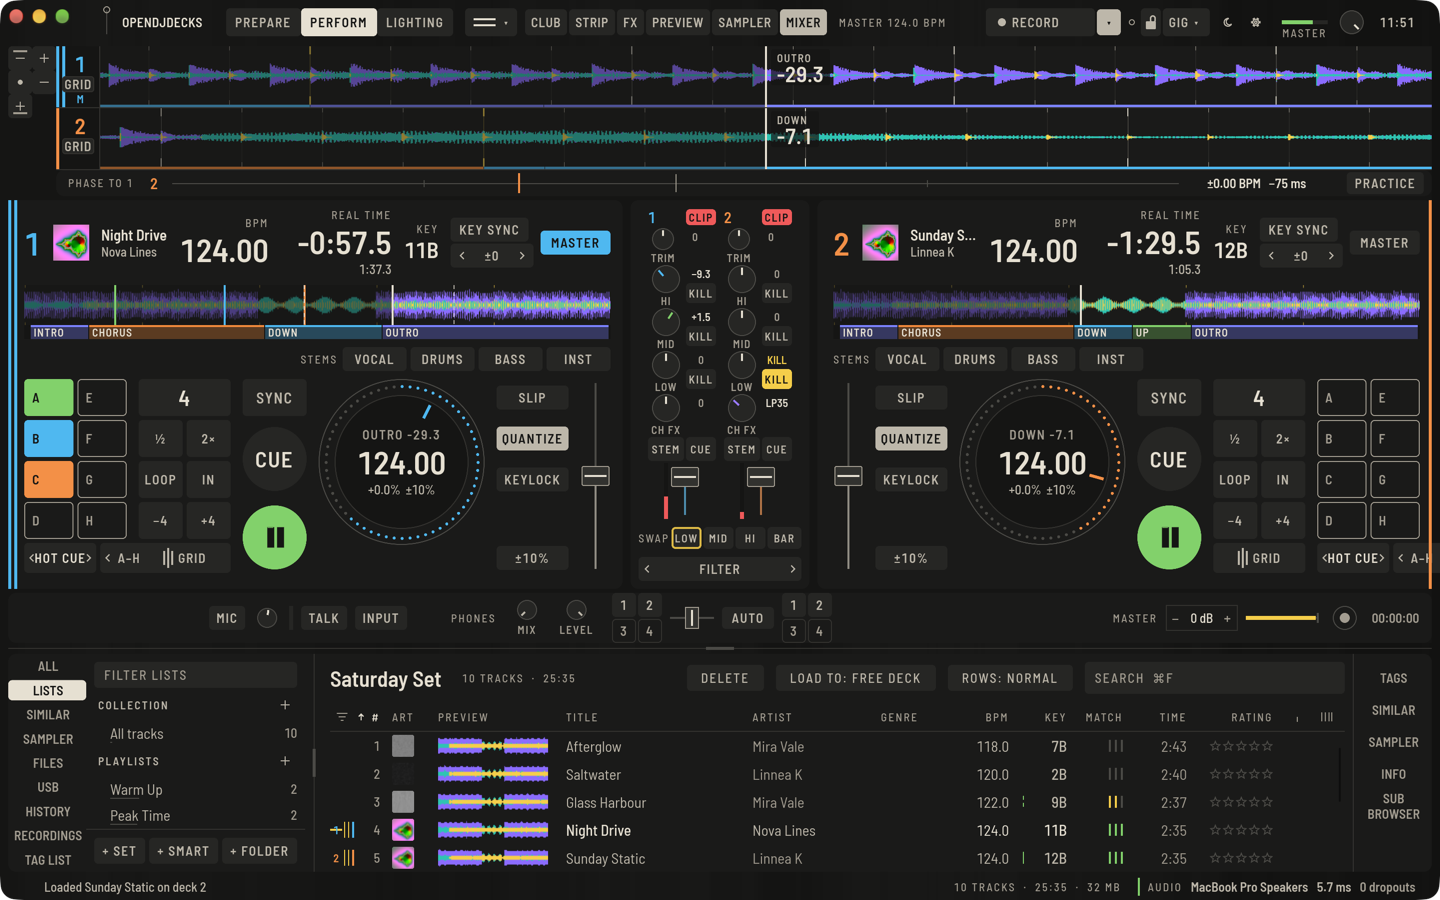
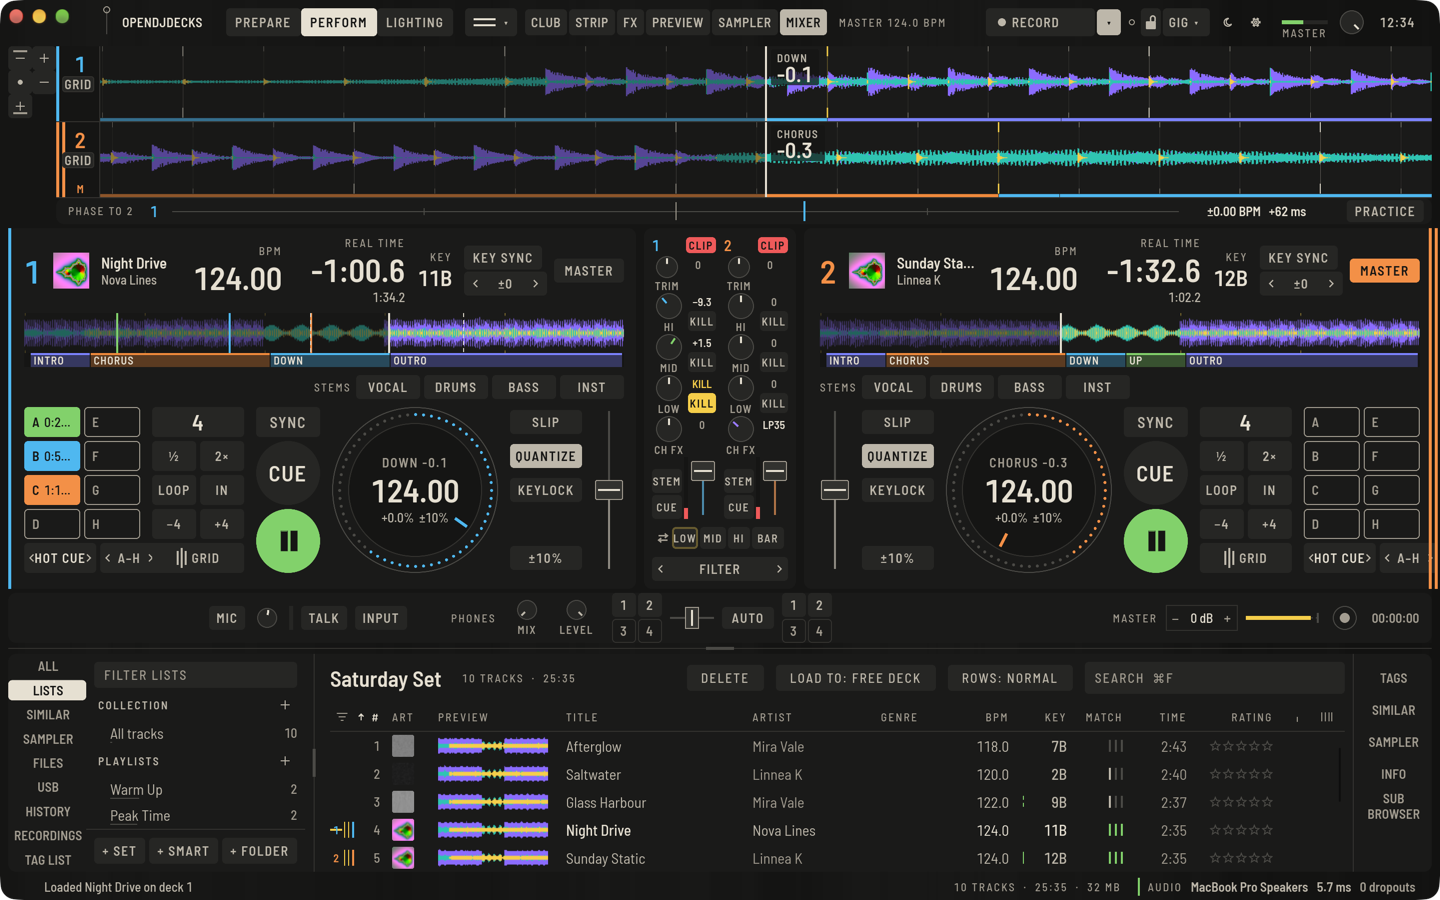
Guides: mixer screenshot and wording for the new strip layout

diff --git a/docs/guide/de/mixer.md b/docs/guide/de/mixer.md
@@ -9,7 +9,7 @@ Der Mixer steht zwischen den Decks. Drücke **MIXER** in der oberen Leiste (`⌥
 
 ## Ein Kanal
 
-Von oben nach unten: die Kanalnummer mit ihrer **CLIP**-Lampe, **TRIM**, **HI**, **MID**, **LOW**, **CH FX** (der Channel-FX-Regler), **STEM** und **CUE**, und der Kanalfader mit seiner Anzeige. Zieh einen Regler nach oben oder unten, um ihn zu drehen; Doppelklick (oder doppeltes Tippen) setzt ihn auf die Mitte zurück.
+Von oben nach unten: die Kanalnummer mit ihrer **CLIP**-Lampe, **TRIM**, **HI**, **MID**, **LOW**, **CH FX** (der Channel-FX-Regler) und der Kanalfader mit seiner Anzeige, daneben **STEM** und **CUE**. Zieh einen Regler nach oben oder unten, um ihn zu drehen; Doppelklick (oder doppeltes Tippen) setzt ihn auf die Mitte zurück.
 
 Jeder Regler zeigt seinen Wert daneben: TRIM und EQ in dB (**AUS**, wenn ein Isolator-Band ganz heruntergedreht ist), CH FX als Seite und Stärke des Filters (**LP40** ist ein Tiefpass bei 40 %, **HP25** ein Hochpass bei 25 %), andere Channel FX als Prozent mit Vorzeichen.
 
@@ -21,18 +21,18 @@ Jeder Regler zeigt seinen Wert daneben: TRIM und EQ in dB (**AUS**, wenn ein Iso
 
 ## Basswechsel
 
-![Der Mixer mit gekilltem LOW auf Deck 2 und einem LOW-Tausch, der auf den nächsten Takt wartet](../img/mixer-bass-swap.png)
+![Der Mixer mit gekilltem LOW auf einem Deck und einem LOW-Tausch, der auf den nächsten Takt wartet](../img/mixer-bass-swap.png)
 
 **KILL** neben HI, MID und LOW nimmt dieses Band heraus, solange es leuchtet. Der Regler bleibt, wo er ist; lässt du den Kill los, kommt das Band mit dem Wert des Reglers zurück. Mit dem Isolator-EQ ist ein gekilltes Band stumm, mit dem klassischen EQ steht es auf der tiefsten Stellung des Reglers (−26 dB). Der Wert neben dem Regler zeigt **KILL**, solange er an ist.
 
-Die Reihe **SWAP** unter den Kanälen tauscht mit einem Tippen ein Band zwischen den zwei Decks im Mix:
+Die Tauschreihe unter den Kanälen (mit zwei gegenläufigen Pfeilen markiert) tauscht mit einem Tippen ein Band zwischen den zwei Decks im Mix:
 
 1. Kille das LOW des kommenden Decks (oder dreh es herunter), während das spielende Deck seinen Bass hat.
-2. Tippe in der SWAP-Reihe auf **LOW**. Die beiden Decks tauschen LOW-Regler und Kill: Das kommende Deck bekommt den Bass, das gehende verliert ihn. **MID** und **HI** machen dasselbe für ihre Bänder.
+2. Tippe in der Tauschreihe auf **LOW**. Die beiden Decks tauschen LOW-Regler und Kill: Das kommende Deck bekommt den Bass, das gehende verliert ihn. **MID** und **HI** machen dasselbe für ihre Bänder.
 
 Die Taste am Ende der Reihe bestimmt, wann getauscht wird: **SOFORT**, **BEAT** (auf dem nächsten Beat) oder **TAKT** (auf der nächsten Eins), gezählt am Beatgrid des Master-Decks. Klick sie an, um durch die drei zu schalten. Solange ein Tausch auf seinen Beat oder Takt wartet, zeigt seine Taste einen Rahmen; tippst du erneut darauf, wird er abgebrochen. Spielt kein Deck, gibt es keinen Beat, auf den gewartet werden kann, und der Tausch passiert sofort.
 
-Der Tausch wirkt auf die zwei lautesten spielenden Decks. Spielt nur ein Deck, tauscht es mit dem nächsten Deck, auf dem ein Track geladen ist; spielt keins, mit Deck 1 und 2. Bei vier Decks nennt die Reihe das Paar (zum Beispiel **SWAP 2/3**).
+Der Tausch wirkt auf die zwei lautesten spielenden Decks. Spielt nur ein Deck, tauscht es mit dem nächsten Deck, auf dem ein Track geladen ist; spielt keins, mit Deck 1 und 2. Bei vier Decks nennt die Reihe das Paar (zum Beispiel **2/3**).
 
 Ein Controller kann beides: Lege `mixer.eq_kill` (mit `band = "low"`, `"mid"` oder `"high"`) auf eine Taste eines Kanals und `eq_swap` (mit einem `band`) auf eine beliebige Taste; siehe [Controller-Mappings](controllers.md). Noch kein mitgeliefertes Controller-Mapping nutzt sie, und an einem echten Controller wurden sie noch nicht ausprobiert; getestet sind sie nur in der Software.
 

diff --git a/docs/guide/en/mixer.md b/docs/guide/en/mixer.md
@@ -9,7 +9,7 @@ The mixer stands between the decks. Press **MIXER** in the top bar (`⌥⌘M`) t
 
 ## A channel
 
-From top to bottom: the channel number with its **CLIP** lamp, **TRIM**, **HI**, **MID**, **LOW**, **CH FX** (the Channel FX knob), **STEM** and **CUE**, and the channel fader with its meter. Drag a knob up or down to turn it; double-click (or double-tap) it to reset it to the centre.
+From top to bottom: the channel number with its **CLIP** lamp, **TRIM**, **HI**, **MID**, **LOW**, **CH FX** (the Channel FX knob), and the channel fader with its meter, with **STEM** and **CUE** beside it. Drag a knob up or down to turn it; double-click (or double-tap) it to reset it to the centre.
 
 Each knob shows its value beside it: TRIM and the EQ in dB (**OFF** when an isolator band is turned fully down), CH FX as the filter side and depth (**LP40** is a low-pass at 40 %, **HP25** a high-pass at 25 %), other Channel FX as a signed percent.
 
@@ -21,18 +21,18 @@ Each knob shows its value beside it: TRIM and the EQ in dB (**OFF** when an isol
 
 ## Bass swaps
 
-![The mixer with deck 2's LOW killed and a LOW swap waiting for the next bar](../img/mixer-bass-swap.png)
+![The mixer with one deck's LOW killed and a LOW swap waiting for the next bar](../img/mixer-bass-swap.png)
 
 **KILL** beside HI, MID and LOW takes that band out while it is lit. The knob stays where it is; when you release the kill, the band comes back at the knob's value. With the isolator EQ a killed band is silent; with the classic EQ it is at the knob's lowest setting (−26 dB). The value beside the knob reads **KILL** while it is on.
 
-The **SWAP** row under the channels exchanges one band between the two decks in the mix with one tap:
+The swap row under the channels (marked with two opposed arrows) exchanges one band between the two decks in the mix with one tap:
 
 1. Kill the LOW of the incoming deck (or turn it down) while the playing deck has its bass.
-2. Tap **LOW** in the SWAP row. The two decks trade their LOW knob and kill: the incoming deck gets the bass, the outgoing deck loses it. **MID** and **HI** do the same for their bands.
+2. Tap **LOW** in the swap row. The two decks trade their LOW knob and kill: the incoming deck gets the bass, the outgoing deck loses it. **MID** and **HI** do the same for their bands.
 
 The key at the end of the row sets when the swap happens: **NOW** (at once), **BEAT** (on the next beat) or **BAR** (on the next downbeat), counted on the master deck's beatgrid. Click it to step through the three. While a swap waits for its beat or bar, its key shows an outline; tap it again to cancel. When no deck is playing there is no beat to wait for, and the swap happens at once.
 
-The swap acts on the two loudest playing decks. When only one deck plays, it swaps with the next deck that has a track loaded; with nothing playing, decks 1 and 2. With four decks, the row names the pair (for example **SWAP 2/3**).
+The swap acts on the two loudest playing decks. When only one deck plays, it swaps with the next deck that has a track loaded; with nothing playing, decks 1 and 2. With four decks, the row names the pair (for example **2/3**).
 
 A controller can do both: map `mixer.eq_kill` (with `band = "low"`, `"mid"` or `"high"`) to a button of a channel, and `eq_swap` (with a `band`) to any button; see [Controller mappings](controllers.md). No shipped controller mapping uses them yet, and they have not been tried on a hardware controller; they are tested in software only.
 

diff --git a/docs/feature-matrix.md b/docs/feature-matrix.md
@@ -187,8 +187,8 @@ Priority (gaps only): **P1** = an experienced DJ hits it in the first session an
 | 3-band EQ (isolator) | DONE | `dsp/eq.rs` default `Isolator`; UI + controller | 3 |  |
 | EQ mode classic/isolator | DONE | `ChannelCommand::SetEqMode`, `crates/od-ui/src/preferences.rs::mixer_settings`; Preferences > Controller > Mixer: isolator / classic EQ, stored and applied live and at engine start | 2 |  |
 | Kill per EQ band | DONE | `ChannelCommand::SetEqKill`, `crates/od-ui/src/mixer.rs::toggle_kill`; Roadmap [55]. KILL beside HI, MID and LOW on each channel (and `mixer.eq_kill` in mappings): the band goes silent (isolator) or to −26 dB (classic EQ) while lit; the knob keeps its place and the release returns to it | 5 | P2 |
-| One-tap EQ swap between two decks, now or on the next beat or bar | DONE | `MixerCommand::SwapEq`, `crates/od-ui/src/mixer.rs::swap`; Roadmap [55]. SWAP LOW / MID / HI under the channels (and `eq_swap` in mappings) exchanges the knob and kill of that band between the two loudest playing decks (one playing: it and the next loaded deck); NOW / BEAT / BAR sets the timing on the master clock, a waiting swap shows armed and a second tap cancels it. Landing is block-accurate in the engine | 10 | P2 |
-| Larger EQ and filter knobs with their values, double-click reset | DONE | `ui/perform.slint::BandRow`, `crates/od-ui/src/mixer.rs::eq_text`; Roadmap [55]. EQ and CH FX knobs 28 px (20 px compact, before 22 / 16) with the value beside them: dB for TRIM and EQ, OFF at the isolator's full cut, KILL while killed, LP / HP and percent for the filter; double-click (double-tap) resets | 3 | P2 |
+| One-tap EQ swap between two decks, now or on the next beat or bar | DONE | `MixerCommand::SwapEq`, `crates/od-ui/src/mixer.rs::swap`; Roadmap [55]. LOW / MID / HI in the swap row under the channels (and `eq_swap` in mappings) exchanges the knob and kill of that band between the two loudest playing decks (one playing: it and the next loaded deck); NOW / BEAT / BAR sets the timing on the master clock, a waiting swap shows armed and a second tap cancels it. Landing is block-accurate in the engine | 10 | P2 |
+| Larger EQ and filter knobs with their values, double-click reset | DONE | `ui/perform.slint::BandRow`, `crates/od-ui/src/mixer.rs::eq_text`; Roadmap [55]. EQ and CH FX knobs 26 px (18 px compact, before 22 / 16) with the value beside them: dB for TRIM and EQ, OFF at the isolator's full cut, KILL while killed, LP / HP and percent for the filter; double-click (double-tap) resets | 3 | P2 |
 | Clip lamp per channel | DONE | `MeterReading::clipped`, `MixerCommand::ResetClipIndicators`; Roadmap [55]. CLIP beside the channel number lights red once the channel went over full scale before the fader and stays lit until clicked; the click clears all clip indicators, the master's too | 2 | P2 |
 | Channel FX knob (filter) | DONE | `SetChannelFxAmount`; UI + controller (default kind = filter) | 1 |  |
 | Channel fader | DONE | UI + controller | 3 |  |
